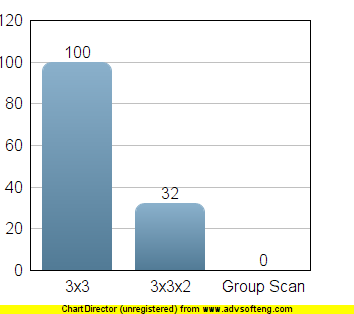
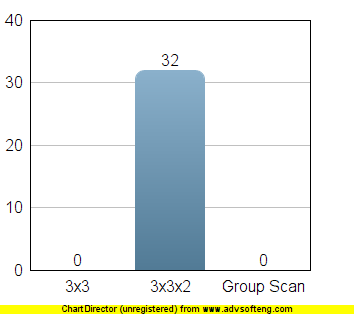
updates

diff --git a/public/service-worker.js b/public/service-worker.js
@@ -49,7 +49,7 @@
 
 
 /* eslint-disable quotes, comma-spacing */
-var PrecacheConfig = [["/build/css/final-cdc7520bb2.css","cdc7520bb2607af50f322509141a4a01"],["/build/js/final-5339212ed4.js","5339212ed4c0e7eea7c47c7849630155"],["/build/js/final-d0f564c2e7.js","d0f564c2e702aa551cedd1dc155ece63"],["/fonts/lato-light-webfont.woff","e5e4b3f473d181b71511eb75f07a3ecd"],["/fonts/lato-light-webfont.woff2","eeb3756bfdce23dc6f56f66c0ff95527"],["/fonts/lato-regular-webfont.woff","846ec700685b22ae84c645991990793e"],["/fonts/lato-regular-webfont.woff2","73436c973bb773094a508fdd4bb78af9"],["/img/1.png","f4b7ec33b456893cc03bf03e22e483ee"],["/img/Day/day0.png","8ee5ec3f15b3330fa4e60bba57c0c1d6"],["/img/Day/day1.png","8ee5ec3f15b3330fa4e60bba57c0c1d6"],["/img/Day/day2.png","4ca349e95662c06662b4a5c540ca1ded"],["/img/Day/day3.png","435b4032b7d6a198d1f8c68e1ecd9b40"],["/img/Day/day4.png","9a3a6fca096dbdbc214b4376afb85575"],["/img/Day/day5.png","7e3120c44fd59a40be205268d333195f"],["/img/Day/day6.png","e5a0cfd1f0b349680242c98f7e55a623"],["/img/Day/day7.png","d8aa0a13946577e76d1a87639e753e82"],["/img/Day/day8.png","e2ac8461448f5ea514568143f72f270a"],["/img/act/1.png","cd62f9597f44896fc167b48668dd9557"],["/img/act/2.png","9309df5f47081f66aa9ae17bf5a072d0"],["/img/act/3.png","fb3bb0c0b1a93cfcc5a244c9fa7ab256"],["/img/act/4.png","4182f59f5de21f3511875ee7659f7547"],["/img/act/5.png","328d7c51a17eb9ea0db6abc1be490da5"],["/img/act/6.png","e2e0c258ccd7a8fac1949483c3271766"],["/img/act/7.png","4ce5017af5d33246b5cc8e2527b8c28d"],["/img/act/8.png","99a124ad9cf200d4da2dc3e8edd21606"],["/img/act/9.png","2ddac31dd7871c79668c31a27912c820"],["/img/activity/Daystart.png","cd62f9597f44896fc167b48668dd9557"],["/img/activity/Pitch.png","fb3bb0c0b1a93cfcc5a244c9fa7ab256"],["/img/activity/Presentation.png","9309df5f47081f66aa9ae17bf5a072d0"],["/img/activity/assignment.png","2ddac31dd7871c79668c31a27912c820"],["/img/activity/exercise.png","4182f59f5de21f3511875ee7659f7547"],["/img/activity/focus.png","4ce5017af5d33246b5cc8e2527b8c28d"],["/img/activity/parliament.png","328d7c51a17eb9ea0db6abc1be490da5"],["/img/activity/rose.png","99a124ad9cf200d4da2dc3e8edd21606"],["/img/activity/system.png","e2e0c258ccd7a8fac1949483c3271766"],["/img/charts/6/1/1.png","04c3f47ea1767570b6f505d6d5526372"],["/img/charts/6/1/2.png","135602f2efa1766b9fda8e835d959906"],["/img/charts/6/1/3.png","f46022c2480348deeb7ab29d2eb87a93"],["/img/charts/6/1/4.png","70b1a80f58aa089bbff9ec1a6228b80d"],["/img/charts/6/1/5.png","6602db627c93057e3dc097f44b47ae1f"],["/img/charts/6/1/6.png","1f1ba95f9a3ed458dccbfc10fa110695"],["/img/charts/6/1/7.png","6a48bdfc32274a3b99a70459b4f18fcb"],["/img/charts/6/1/8.png","d3b812eaa43599533bcecd88788156fa"],["/img/charts/6/1/9.png","fa57720205d4271de459bfa075de13a7"],["/img/charts/chart.png","c2f6087c84b86e0873ca56f78554f8d9"],["/img/charts/line.png","8d687856b0e3af060df856cdd47993d7"],["/img/charts/scatter.png","2268afcb5bf9a0555c739b3a96aa0b62"],["/img/cover.jpg","663c637c9a53da423260d738aae89fd0"],["/img/gquestion.png","6b5772a9915dae4c90ed1746545ea790"],["/img/hand/down.png","0fa92ff4ba88c4cc86206870a754ac29"],["/img/hand/up.png","bb2bfda0fc44f45de6860b6e88fb8dbc"],["/img/hand2/down.png","f7283622acf99dab314910dd68b8276b"],["/img/hand2/up.png","9377e0ec4437e5c1729552c9e4823c08"],["/img/icon.png","7803e776ea4a6133c2cc17479b904447"],["/img/icons/angular-generators.svg","8332f6acb165cbd6946eaa986af903bc"],["/img/icons/elixir.svg","cbee7e251a32f42752f376e641e6920d"],["/img/icons/folder-byfeature.svg","9c3875c4465ac6fd4618e6a03ddecd1d"],["/img/icons/json-webtoken.svg","cd52d5a3fd4a668a7e24ba3f549d1260"],["/img/icons/logo-grey.svg","1134d1377b245a40089571f94cca67c4"],["/img/icons/logo.svg","4417721be495be1a65ad7cd622ea958c"],["/img/icons/menu.svg","68c01fca94477e3588e4b45c80bf6bb2"],["/img/icons/restful-api.svg","c49ec241782187c2f27e6469913901e2"],["/img/logo-1.png","324fd4dd36f0a2d4141a19a3f42f9bf5"]];
+var PrecacheConfig = [["/build/css/final-cdc7520bb2.css","cdc7520bb2607af50f322509141a4a01"],["/build/js/final-5339212ed4.js","5339212ed4c0e7eea7c47c7849630155"],["/build/js/final-ef0f67db33.js","ef0f67db331c5d83754de6801c7d47e6"],["/fonts/lato-light-webfont.woff","e5e4b3f473d181b71511eb75f07a3ecd"],["/fonts/lato-light-webfont.woff2","eeb3756bfdce23dc6f56f66c0ff95527"],["/fonts/lato-regular-webfont.woff","846ec700685b22ae84c645991990793e"],["/fonts/lato-regular-webfont.woff2","73436c973bb773094a508fdd4bb78af9"],["/img/1.png","f4b7ec33b456893cc03bf03e22e483ee"],["/img/Day/day0.png","8ee5ec3f15b3330fa4e60bba57c0c1d6"],["/img/Day/day1.png","8ee5ec3f15b3330fa4e60bba57c0c1d6"],["/img/Day/day2.png","4ca349e95662c06662b4a5c540ca1ded"],["/img/Day/day3.png","435b4032b7d6a198d1f8c68e1ecd9b40"],["/img/Day/day4.png","9a3a6fca096dbdbc214b4376afb85575"],["/img/Day/day5.png","7e3120c44fd59a40be205268d333195f"],["/img/Day/day6.png","e5a0cfd1f0b349680242c98f7e55a623"],["/img/Day/day7.png","d8aa0a13946577e76d1a87639e753e82"],["/img/Day/day8.png","e2ac8461448f5ea514568143f72f270a"],["/img/act/1.png","cd62f9597f44896fc167b48668dd9557"],["/img/act/2.png","9309df5f47081f66aa9ae17bf5a072d0"],["/img/act/3.png","fb3bb0c0b1a93cfcc5a244c9fa7ab256"],["/img/act/4.png","4182f59f5de21f3511875ee7659f7547"],["/img/act/5.png","328d7c51a17eb9ea0db6abc1be490da5"],["/img/act/6.png","e2e0c258ccd7a8fac1949483c3271766"],["/img/act/7.png","4ce5017af5d33246b5cc8e2527b8c28d"],["/img/act/8.png","99a124ad9cf200d4da2dc3e8edd21606"],["/img/act/9.png","2ddac31dd7871c79668c31a27912c820"],["/img/activity/Daystart.png","cd62f9597f44896fc167b48668dd9557"],["/img/activity/Pitch.png","fb3bb0c0b1a93cfcc5a244c9fa7ab256"],["/img/activity/Presentation.png","9309df5f47081f66aa9ae17bf5a072d0"],["/img/activity/assignment.png","2ddac31dd7871c79668c31a27912c820"],["/img/activity/exercise.png","4182f59f5de21f3511875ee7659f7547"],["/img/activity/focus.png","4ce5017af5d33246b5cc8e2527b8c28d"],["/img/activity/parliament.png","328d7c51a17eb9ea0db6abc1be490da5"],["/img/activity/rose.png","99a124ad9cf200d4da2dc3e8edd21606"],["/img/activity/system.png","e2e0c258ccd7a8fac1949483c3271766"],["/img/charts/6/1/1.png","15a8939c10fa75dc1ac3417575db1075"],["/img/charts/6/1/2.png","b2d54c6ad3494ade4e0f24653b6fc5f8"],["/img/charts/6/1/3.png","f46022c2480348deeb7ab29d2eb87a93"],["/img/charts/6/1/4.png","70b1a80f58aa089bbff9ec1a6228b80d"],["/img/charts/6/1/5.png","6602db627c93057e3dc097f44b47ae1f"],["/img/charts/6/1/6.png","1f1ba95f9a3ed458dccbfc10fa110695"],["/img/charts/6/1/7.png","6a48bdfc32274a3b99a70459b4f18fcb"],["/img/charts/6/1/8.png","d3b812eaa43599533bcecd88788156fa"],["/img/charts/6/1/9.png","fa57720205d4271de459bfa075de13a7"],["/img/charts/chart.png","c2f6087c84b86e0873ca56f78554f8d9"],["/img/charts/line.png","8d687856b0e3af060df856cdd47993d7"],["/img/charts/scatter.png","2268afcb5bf9a0555c739b3a96aa0b62"],["/img/cover.jpg","663c637c9a53da423260d738aae89fd0"],["/img/gquestion.png","6b5772a9915dae4c90ed1746545ea790"],["/img/hand/down.png","0fa92ff4ba88c4cc86206870a754ac29"],["/img/hand/up.png","bb2bfda0fc44f45de6860b6e88fb8dbc"],["/img/hand2/down.png","f7283622acf99dab314910dd68b8276b"],["/img/hand2/up.png","9377e0ec4437e5c1729552c9e4823c08"],["/img/icon.png","7803e776ea4a6133c2cc17479b904447"],["/img/icons/angular-generators.svg","8332f6acb165cbd6946eaa986af903bc"],["/img/icons/elixir.svg","cbee7e251a32f42752f376e641e6920d"],["/img/icons/folder-byfeature.svg","9c3875c4465ac6fd4618e6a03ddecd1d"],["/img/icons/json-webtoken.svg","cd52d5a3fd4a668a7e24ba3f549d1260"],["/img/icons/logo-grey.svg","1134d1377b245a40089571f94cca67c4"],["/img/icons/logo.svg","4417721be495be1a65ad7cd622ea958c"],["/img/icons/menu.svg","68c01fca94477e3588e4b45c80bf6bb2"],["/img/icons/restful-api.svg","c49ec241782187c2f27e6469913901e2"],["/img/logo-1.png","324fd4dd36f0a2d4141a19a3f42f9bf5"]];
 /* eslint-enable quotes, comma-spacing */
 var CacheNamePrefix = 'sw-precache-v1--' + (self.registration ? self.registration.scope : '') + '-';
 

diff --git a/angular/directives/no_image_cache/no_image_cache.directive.js b/angular/directives/no_image_cache/no_image_cache.directive.js
@@ -1,0 +1,19 @@
+class NoImageCacheController{
+    constructor(){
+        'ngInject';
+
+        //
+    }
+}
+
+export function NoImageCacheDirective(){
+    return {
+        priority: 99,
+        link: function(scope, element, attrs) {
+          attrs.$observe('noCacheSrc', function(noCacheSrc) {
+            noCacheSrc += '?' + (new Date()).getTime();
+            attrs.$set('src', noCacheSrc);
+          });
+        }
+      }
+}

diff --git a/angular/index.directives.js b/angular/index.directives.js
@@ -1,2 +1,4 @@
+import {NoImageCacheDirective} from './directives/no_image_cache/no_image_cache.directive';
 
-angular.module('app.directives');
+angular.module('app.directives')
+	.directive('noImageCache', NoImageCacheDirective);

diff --git a/tests/angular/directives/no_image_cache.directive.spec.js b/tests/angular/directives/no_image_cache.directive.spec.js
@@ -1,0 +1,11 @@
+ngDescribe({
+    name: 'Test no-image-cache directive',
+    modules: 'app',
+    element: '',
+    tests: function (deps) {
+
+        it('basic test', () => {
+            //
+        });
+    }
+});

diff --git a/app/Http/Controllers/MIEvaluateController.php b/app/Http/Controllers/MIEvaluateController.php
@@ -228,7 +228,7 @@ class MIEvaluateController extends Controller
                 'id' => $key,
                 'title' => $val,
                 'description' => $val,
-                'path' => 'img/charts/' . auth()->user()->id . '/' . $activityId . '/' .$key . '.png',
+                'path' => 'img/charts/' . auth()->user()->id . '/' . $activityId . '/' .$key . '.png?hash' . md5(time()),
             ];
         }
 
